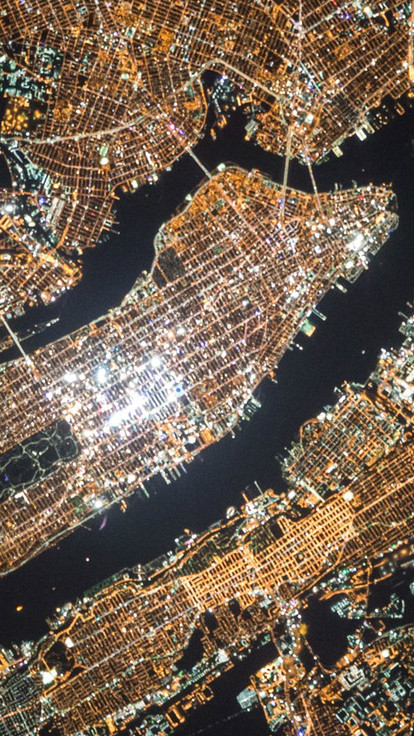
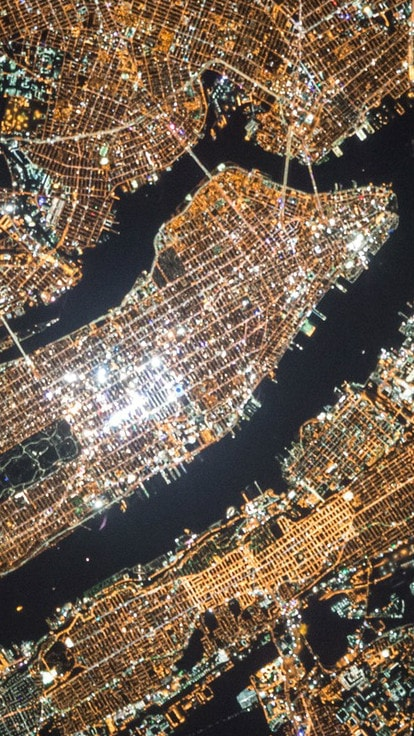
image optimization

diff --git a/src/index.css b/src/index.css
@@ -62,6 +62,7 @@ small {
 }
 
 a {
+  -webkit-transition: all .3s ease-in-out;
   transition: all .3s ease-in-out;
 }
 
@@ -72,11 +73,11 @@ a:hover {
 
 @media (max-width:414px) {
   body {
-    background: url('./images/bg-mobile.jpg');
-    background-repeat: no-repeat;
-    background-size: cover;
-    width: 100%;
-    height: 100%;
+    background-image: -webkit-linear-gradient( rgba(0, 0, 0, 0.5), rgba(0, 0, 0, 0.5)), url('./images/bg-mobile.jpg') !important;
+    background-image: linear-gradient( rgba(0, 0, 0, 0.5), rgba(0, 0, 0, 0.5)), url('./images/bg-mobile.jpg') !important;
     background-attachment: fixed;
+    background-position: center;
+    background-repeat: repeat;
+    background-size: initial;
   }
 }
